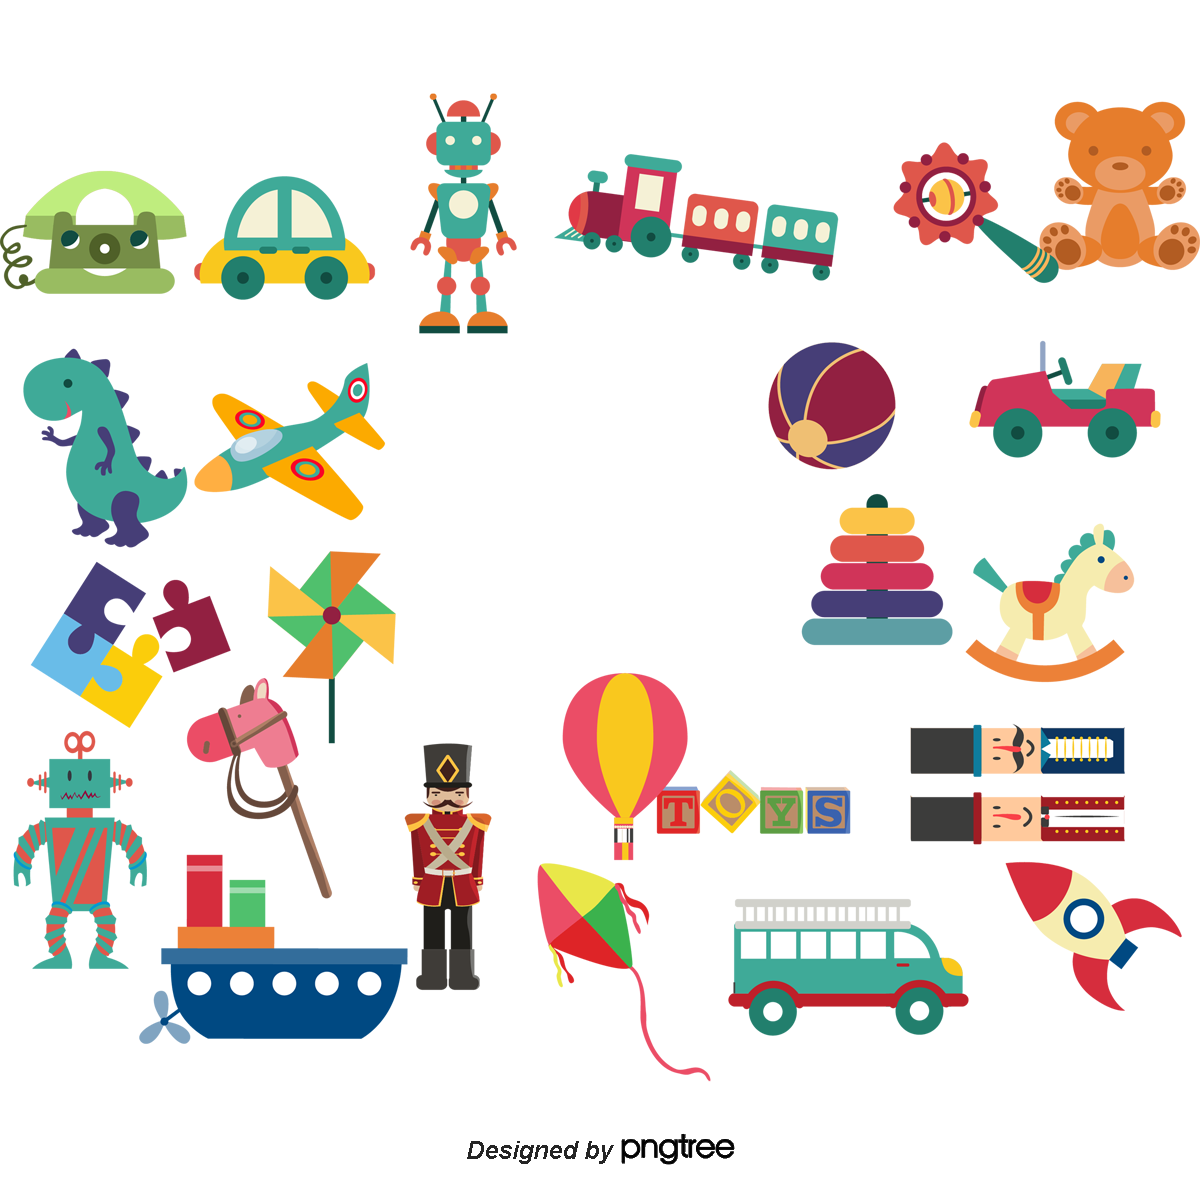
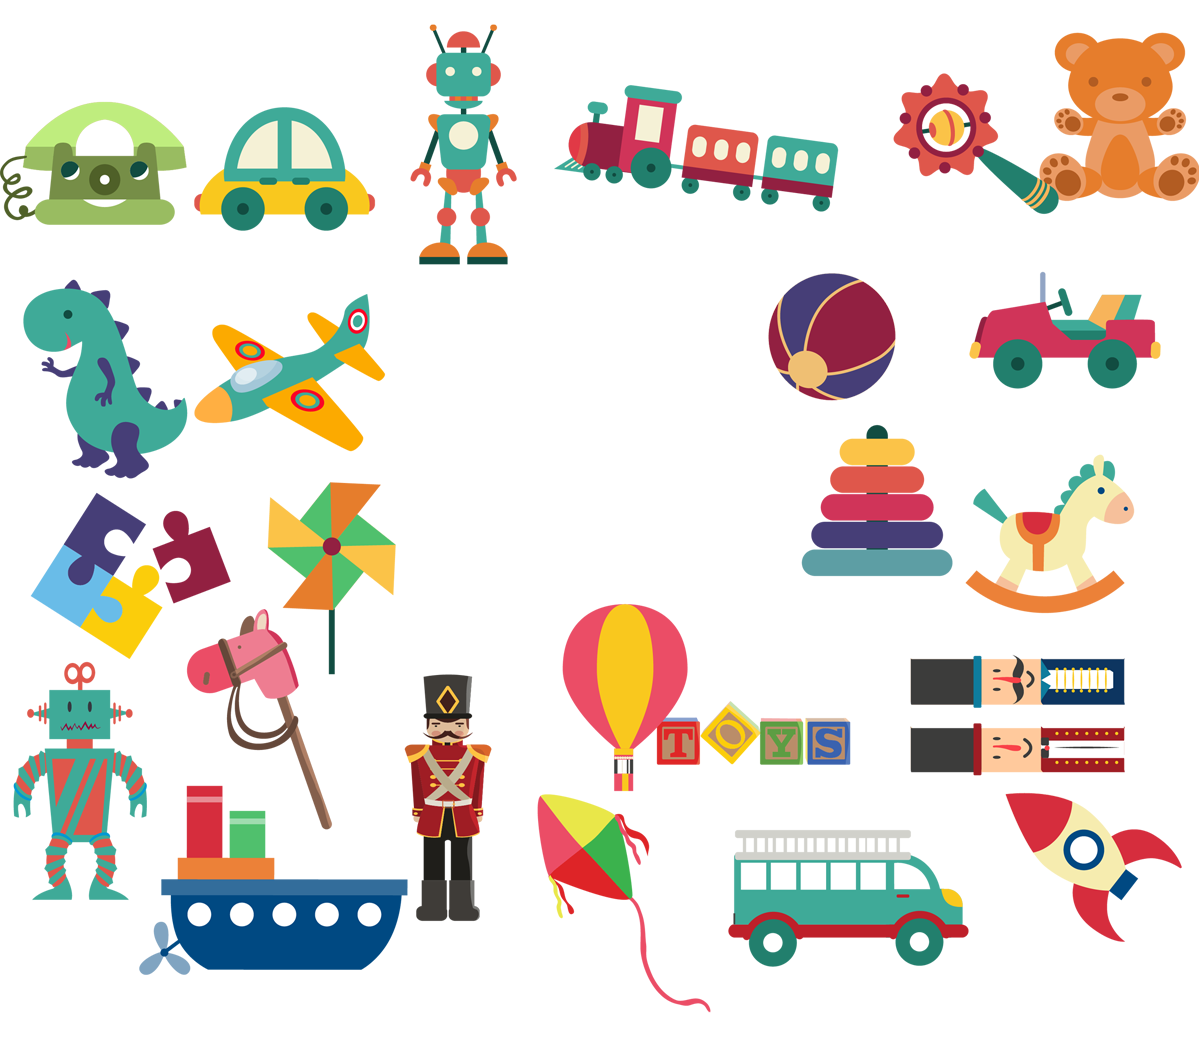
menu accueil jolie

diff --git a/css/accueil.css b/css/accueil.css
@@ -1,0 +1,36 @@
+body{
+    background: url("../img/accueil.png");
+    position: fixed;
+    background-size: contain;
+}
+
+.titre{
+    text-align: center;
+    font-size: 60px;
+    margin-top: 10vh;
+}
+
+#bouton-jouer {
+    margin-top: 15vh;
+    display: block;
+    margin-right: auto;
+    margin-left: auto;
+    font-size: 35px;
+    background: rgba(255,255,255,0.3);
+    border: 2px solid black;
+    height: 50px;
+    width: 200px;
+    cursor: pointer;
+}
+
+#bouton-jouer:hover {
+    background: rgba(255,255,255,0.6);
+}
+
+#bouton-jouer:active {
+    background: rgba(255,255,255,0);
+}
+
+#div-credits {
+display: none;
+}

diff --git a/index.html b/index.html
@@ -10,6 +10,7 @@
     <script src="./js/jquery-3.4.1.min.js"></script>
 
     <!-- -- -- Css - -- -- -- -->
+    <link rel="stylesheet" href="css/accueil.css">
     <link rel="stylesheet" href="css/style.css">
     <link rel="stylesheet" href="css/tour.css">
     <link rel="stylesheet" href="css/attente.css">

diff --git a/js/Menu.js b/js/Menu.js
@@ -3,6 +3,8 @@ class Menu {
     constructor() {
         $('body').html("");
         $('body').append(
+            $('<h1 class="titre">Va jouer dehors !</h1>'),
+
             $('<button />')
                 .attr('id', 'bouton-jouer')
                 .html('Jouer')
